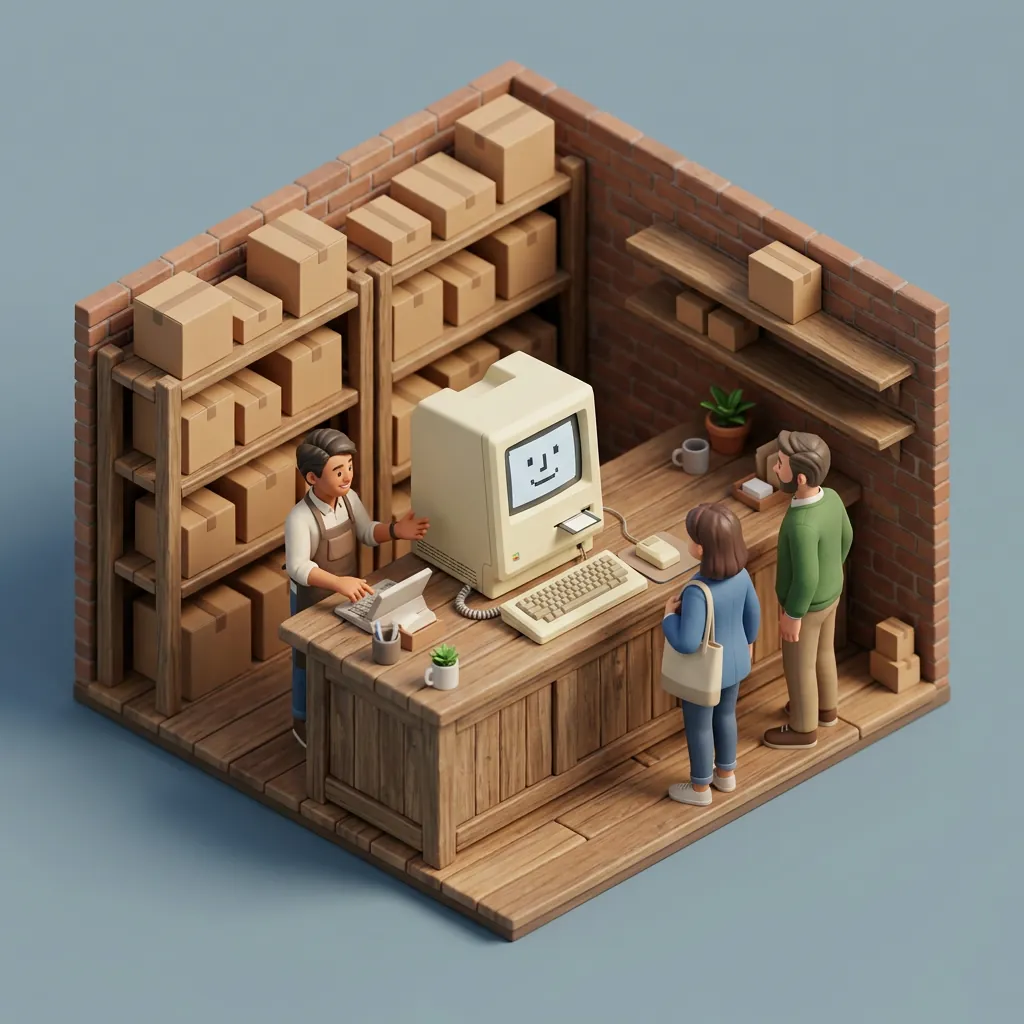
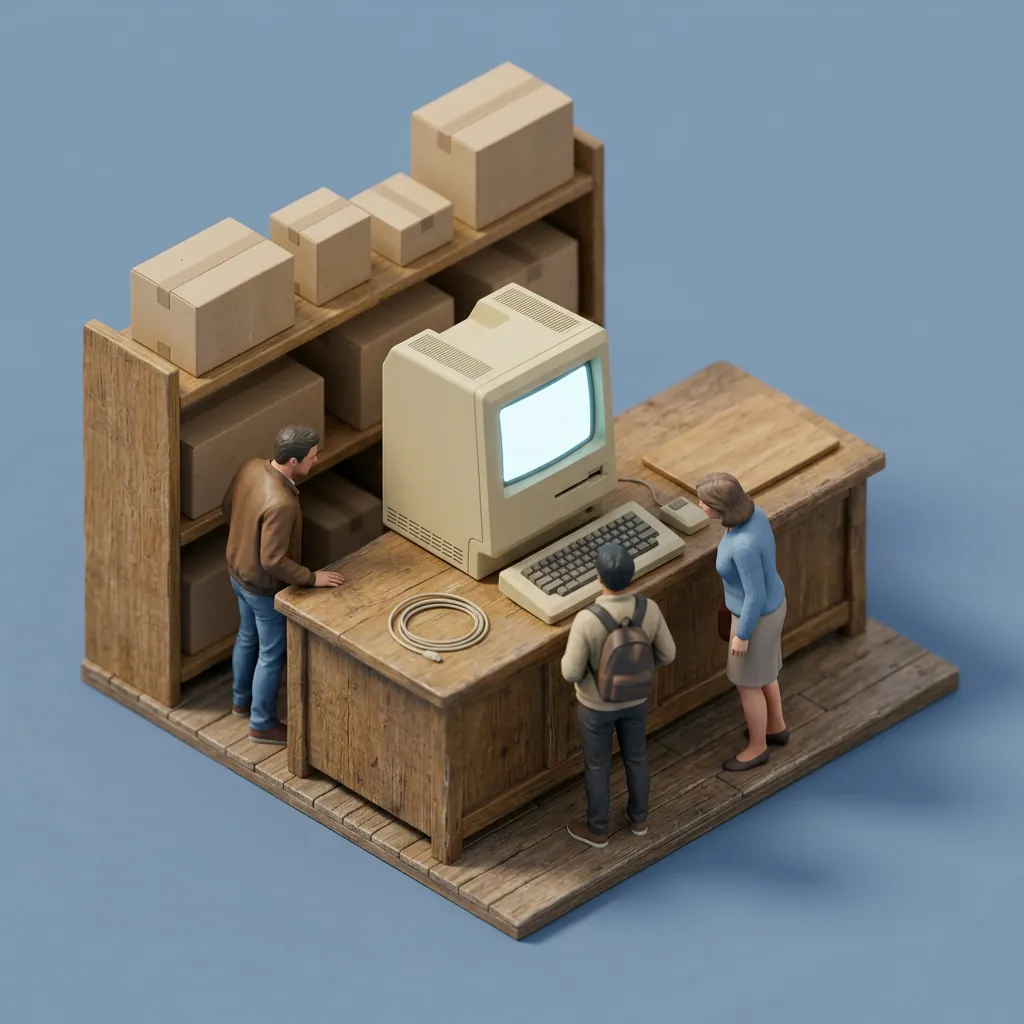
art(campaign): regenerate the Macintosh release scene without brand marks
The old image showed a smiling-face screen icon and a rainbow logo badge;
the prompt now asks for a plain beige computer with a blank glowing screen.

diff --git a/scripts/generateQuestionImages.ts b/scripts/generateQuestionImages.ts
@@ -127,7 +127,7 @@ const EVENT_OVERRIDES: Record<string, string> = {
   'rte-concorde-service':
     'two white supersonic delta-wing airliners with completely plain unmarked white fuselages and plain blue tail fins parked at a modern airport apron with boarding stairs and passengers, no lettering, logos or flags',
   'rte-macintosh-release':
-    'a small cream 1980s all-in-one compact computer with a tiny screen showing a smiling face icon, on a wooden shop counter with shoppers curiously watching, plain unmarked cardboard boxes on shelves, no lettering or logos',
+    'a plain beige 1980s all-in-one compact computer with a blank softly glowing screen, on a wooden shop counter with shoppers curiously watching, plain unmarked cardboard boxes on shelves; the computer and boxes are completely unbranded: no logos, no emblems, no badges, no faces or icons on the screen, no text or lettering anywhere',
   'rte-arpanet-first-message':
     'two 1960s room-sized computers in separate rooms linked by a thick cable, a young researcher at a teletype terminal typing in each room, a glowing line of connection between them, plain screens and panels with no text or letters',
 };
